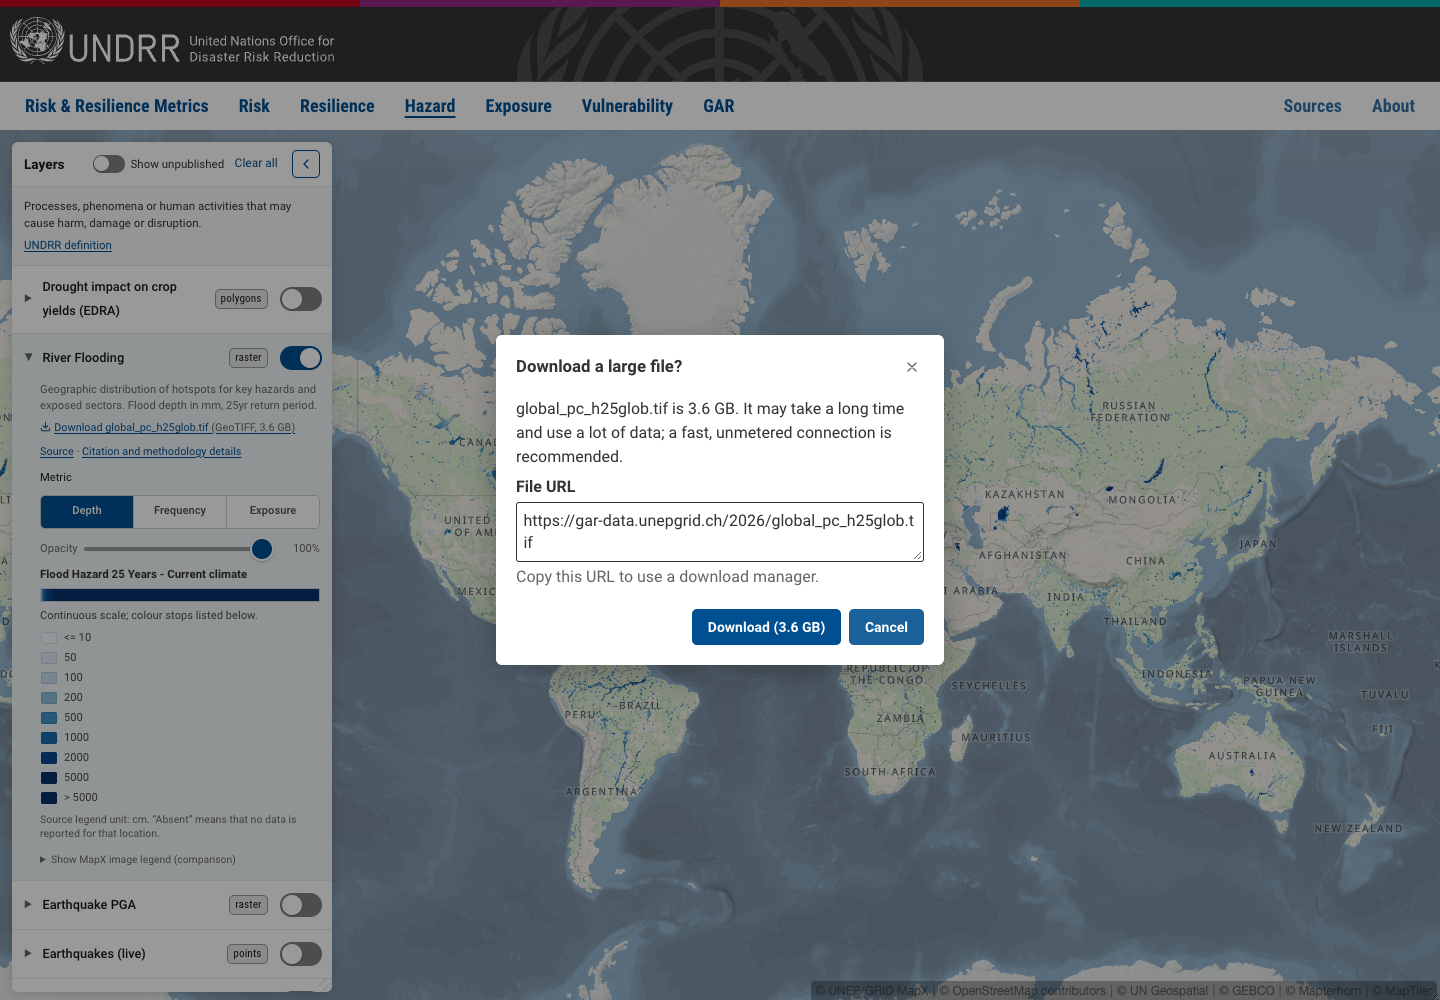
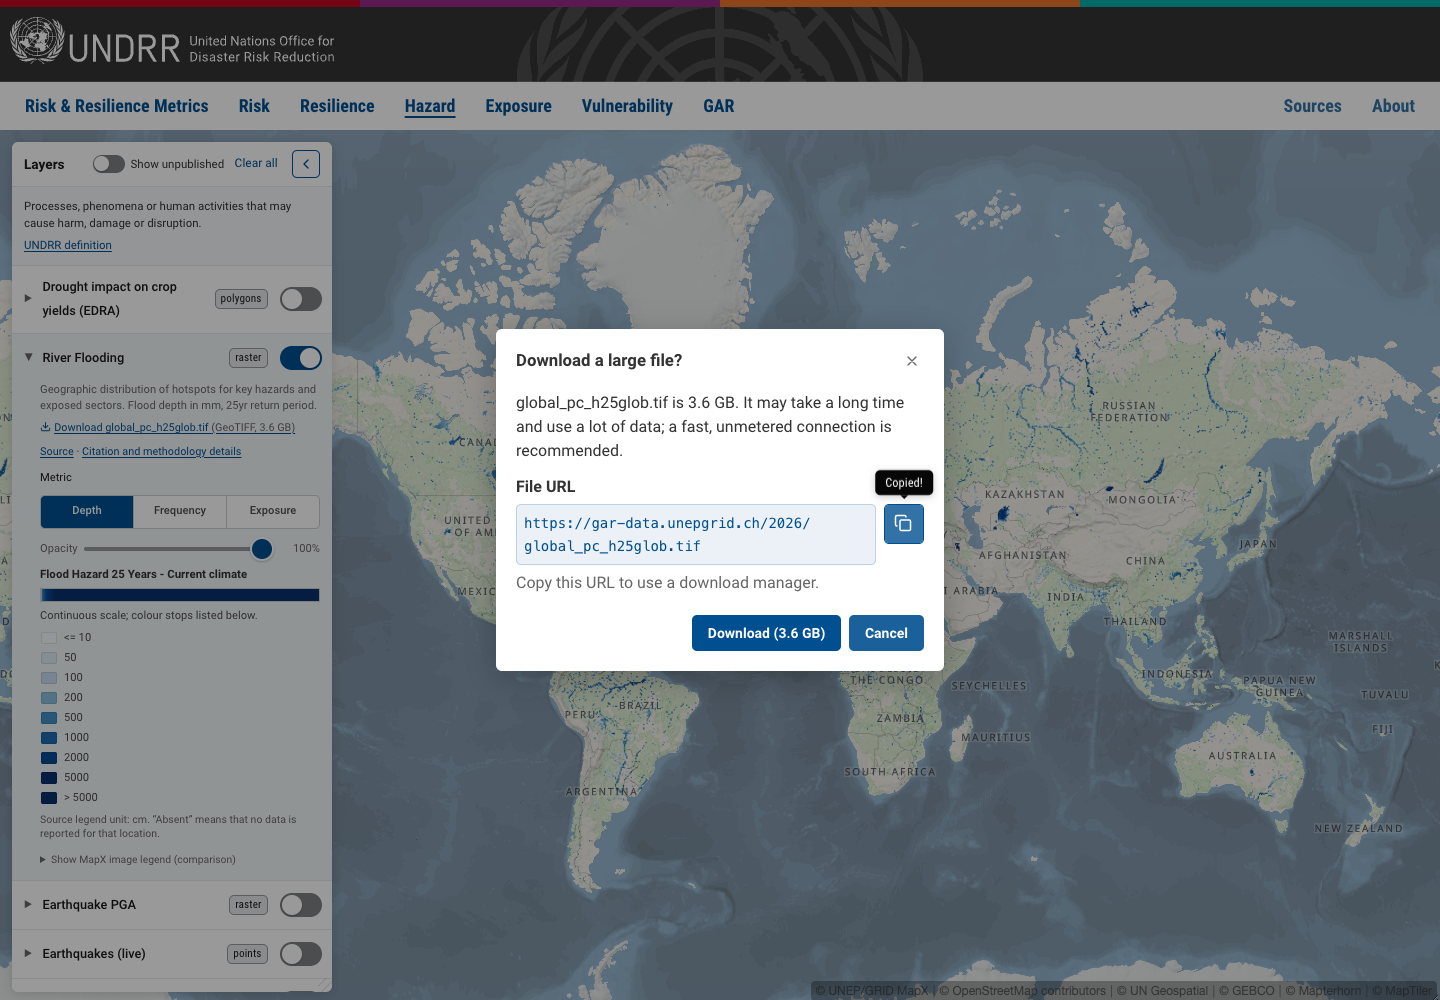
fix: wrap download URLs as code with Mangrove copy utility

Changed region(s): [[0.3438, 0.465, 0.6562, 0.682], [0.3438, 0.31, 0.6562, 0.372], [0.3438, 0.403, 0.625, 0.465]]

diff --git a/src/ui/download-dialog.js b/src/ui/download-dialog.js
@@ -24,6 +24,8 @@
  * MapX call cannot be), but its result is ignored and nothing is downloaded.
  */
 import { createLayerAnnouncer } from "./announcer.js";
+import { escapeHtml } from "../utils/html.js";
+import { attachCopyButtonFallback, initMangroveCopyButtons } from "./mangrove-copy-button.js";
 
 const STEPS = ["fetching", "processing", "downloading"];
 // A one-off hint for a slow fetch, not a duration estimate or a stall detector.
@@ -71,12 +73,7 @@ export function createDownloadDialog({ doc = document } = {}) {
     </div>
     <p class="download-dialog__status" data-part="status"></p>
     <p class="download-dialog__notice mg-form-help" data-part="notice" hidden></p>
-    <div class="download-dialog__file" hidden>
-      <label class="download-dialog__url-label">File URL
-        <textarea class="download-dialog__url" rows="2" readonly spellcheck="false"></textarea>
-      </label>
-      <p class="download-dialog__hint">Copy this URL to use a download manager.</p>
-    </div>
+    <div class="download-dialog__file" hidden></div>
     <div class="download-dialog__actions mg-buttons">
       <button type="button" class="mg-button mg-button-primary" data-action="extra" hidden></button>
       <button type="button" class="mg-button mg-button-primary" data-action="retry" hidden>Try again</button>
@@ -94,7 +91,6 @@ export function createDownloadDialog({ doc = document } = {}) {
   const status = dialog.querySelector('[data-part="status"]');
   const notice = dialog.querySelector('[data-part="notice"]');
   const fileBox = dialog.querySelector(".download-dialog__file");
-  const fileUrlField = dialog.querySelector(".download-dialog__url");
   const retryBtn = dialog.querySelector('[data-action="retry"]');
   const extraBtn = dialog.querySelector('[data-action="extra"]');
   const closeBtn = dialog.querySelector('.download-dialog__actions [data-action="close"]');
@@ -112,6 +108,47 @@ export function createDownloadDialog({ doc = document } = {}) {
   let confirmAccepted = false;
   let destroyed = false;
   let waitHintTimer = null;
+  let copyController = null;
+  let detachCopyFallback = () => {};
+
+  function clearFile() {
+    copyController?.abort();
+    copyController = null;
+    detachCopyFallback();
+    detachCopyFallback = () => {};
+    fileBox.replaceChildren();
+    fileBox.hidden = true;
+  }
+
+  function showFile(url) {
+    if (!url) return;
+    // Prefer breaks after path separators, keeping the scheme together. The
+    // copy utility always receives the original URL without presentation markup.
+    const wrappedUrl = escapeHtml(url).replace(/([^/])\/(?!\/)/g, "$1/<wbr>");
+    fileBox.innerHTML = `
+      <p class="download-dialog__url-label">File URL</p>
+      <div class="download-dialog__url-row">
+        <code class="download-dialog__url mg-code" dir="ltr">${wrappedUrl}</code>
+        <button type="button"
+          class="download-dialog__copy mg-button mg-button-primary mg-button-outline mg-button--icon mg-copy-button"
+          data-mg-copy-button data-text-to-copy="${escapeHtml(url)}"
+          data-tooltip-label="Copied!" data-copied-label="File URL copied to clipboard."
+          aria-label="Copy file URL">
+          <span class="mg-icon mg-icon-copy mg-button__icon" aria-hidden="true"></span>
+          <span class="mg-copy-button__feedback" aria-hidden="true">Copied!</span>
+          <span class="mg-u-sr-only" aria-live="polite"></span>
+        </button>
+      </div>
+      <p class="download-dialog__hint">Copy this URL to use a download manager.</p>
+    `;
+    fileBox.hidden = false;
+    copyController = new AbortController();
+    const detach = attachCopyButtonFallback(fileBox.querySelector("[data-mg-copy-button]"));
+    detachCopyFallback = detach;
+    initMangroveCopyButtons(fileBox, { signal: copyController.signal }).then((applied) => {
+      if (applied) detach();
+    });
+  }
 
   function say(message) {
     // No record: every state change is a new event for the region.
@@ -192,8 +229,7 @@ export function createDownloadDialog({ doc = document } = {}) {
   function show(text, run, opener) {
     settle(false); // a confirm still open is answered "no"
     current = { run, opener };
-    fileBox.hidden = true;
-    fileUrlField.value = "";
+    clearFile();
     title.textContent = text;
     dialog.setAttribute("aria-label", text);
     if (!dialog.isConnected) doc.body.appendChild(dialog);
@@ -222,8 +258,7 @@ export function createDownloadDialog({ doc = document } = {}) {
   function confirm({ title: text, message, confirmLabel, fileUrl = "", opener = doc.activeElement }) {
     if (destroyed) return Promise.resolve(false);
     show(text, null, opener);
-    fileUrlField.value = fileUrl;
-    fileBox.hidden = !fileUrl;
+    showFile(fileUrl);
     generation++; // any earlier run is abandoned
     return new Promise((resolve) => {
       confirmAccepted = false;
@@ -241,6 +276,7 @@ export function createDownloadDialog({ doc = document } = {}) {
   function close() {
     if (!dialog.open && !dialog.hasAttribute("open")) return;
     generation++;
+    clearFile();
     clearTimeout(waitHintTimer);
     waitHintTimer = null;
     if (typeof dialog.close === "function") dialog.close();

diff --git a/src/ui/download-dialog.test.js b/src/ui/download-dialog.test.js
@@ -34,6 +34,7 @@ describe("createDownloadDialog", () => {
   afterEach(() => {
     dialog.destroy();
     vi.useRealTimers();
+    vi.unstubAllGlobals();
   });
 
   const live = () => dialog.element.querySelector('[role="status"]');
@@ -323,16 +324,37 @@ describe("createDownloadDialog", () => {
       const field = dialog.element.querySelector(".download-dialog__url");
       const box = dialog.element.querySelector(".download-dialog__file");
       expect(box.hidden).toBe(false);
-      expect(field.readOnly).toBe(true);
-      field.select();
-      expect(field.value.slice(field.selectionStart, field.selectionEnd)).toBe(
+      expect(field.tagName).toBe("CODE");
+      expect(field.textContent).toBe("https://files.example/big.tif");
+      expect(dialog.element.querySelector("[data-mg-copy-button]").dataset.textToCopy).toBe(
         "https://files.example/big.tif",
       );
       dialog.open({ title: "Download CSV", run: () => new Promise(() => {}) });
       expect(box.hidden).toBe(true);
-      expect(field.value).toBe("");
+      expect(box.childElementCount).toBe(0);
       void ask();
       expect(box.hidden).toBe(true);
+    });
+
+    it("copies the exact URL without accepting the download", async () => {
+      const writeText = vi.fn().mockResolvedValue(undefined);
+      vi.stubGlobal("navigator", { clipboard: { writeText } });
+      const accepted = vi.fn();
+      void dialog
+        .confirm({
+          title: "Download a large file?",
+          message: "big.tif is 3.6 GB.",
+          confirmLabel: "Download",
+          fileUrl: "https://files.example/path/big.tif?key=a&other=b",
+        })
+        .then(accepted);
+      const copy = dialog.element.querySelector("[data-mg-copy-button]");
+      copy.click();
+      await flush();
+      expect(writeText).toHaveBeenCalledExactlyOnceWith("https://files.example/path/big.tif?key=a&other=b");
+      expect(copy.querySelector('[aria-live="polite"]').textContent).toBe("File URL copied to clipboard.");
+      expect(accepted).not.toHaveBeenCalled();
+      expect(dialog.state).toBe("confirm");
     });
 
     it("resolves true on the confirm button, closes and returns focus", async () => {

diff --git a/src/styles/components/downloads.css b/src/styles/components/downloads.css
@@ -148,38 +148,37 @@
   opacity: 0;
 }
 
-/* Keep hosted URLs selectable without following the download link. */
+/* Path separators are preferred wrap points; long filenames can still wrap. */
 .download-dialog__url-label {
-  display: block;
-  margin-top: 0.4rem;
+  margin: 0.75rem 0 0.35rem;
   font-weight: 600;
+}
+
+.download-dialog__url-row {
+  display: grid;
+  grid-template-columns: minmax(0, 1fr) auto;
+  align-items: start;
+  gap: 0.5rem;
 }
 
 .download-dialog__url {
   display: block;
-  box-sizing: border-box;
-  width: 100%;
-  min-height: 40px;
-  margin-top: 0.2rem;
-  padding: 0.4rem;
-  border: 1px solid currentColor;
-  border-radius: 3px;
-  background: transparent;
-  color: var(--color-text);
-  font: inherit;
-  font-weight: 400;
-  line-height: 1.4;
+  min-width: 0;
+  padding: 0.5rem;
+  font-size: 0.875rem;
+  line-height: 1.6;
+  white-space: normal;
   overflow-wrap: anywhere;
-  word-break: break-all;
-  resize: vertical;
+  word-break: normal;
+  user-select: text;
 }
 
-.download-dialog__url:focus-visible {
-  outline: var(--mg-focus-ring-width) solid rgb(var(--mg-color-focus-ring));
-  outline-offset: 2px;
+.download-dialog__copy {
+  min-width: 40px;
+  min-height: 40px;
 }
 
 .download-dialog__hint {
-  margin: 0.2rem 0 0.5rem;
+  margin: 0.4rem 0 0;
   color: var(--color-text-muted);
 }

diff --git a/src/ui/downloads.test.js b/src/ui/downloads.test.js
@@ -371,7 +371,9 @@ describe("large-file confirmation", () => {
     expect(dialogEl().dataset.state).toBe("confirm");
     expect(dialogEl().querySelector('[data-part="status"]').textContent).toContain("big.tif is 3.6 GB");
     expect(startFileDownload).not.toHaveBeenCalled();
-    expect(dialogEl().querySelector(".download-dialog__url").value).toBe("https://files.example/big.tif");
+    expect(dialogEl().querySelector(".download-dialog__url").textContent).toBe(
+      "https://files.example/big.tif",
+    );
     expect(dialogEl().querySelector(".download-dialog__file").hidden).toBe(false);
     dialogEl().querySelector('[data-action="extra"]').click();
     await new Promise((resolve) => setTimeout(resolve, 0));

diff --git a/docs/downloads.md b/docs/downloads.md
@@ -31,11 +31,11 @@ stakeholder preview PIN when prompted (access details are shared separately).
 3. For a hosted raster, open `http://localhost:3001/#hazard?layers=river-flooding` and choose
    the GeoTIFF link in the expanded row. The link shows the file's size; files over 1 GB ask for
    confirmation first. In that confirmation modal, **File URL** shows the hosted file’s full
-   address in a read-only field. Select and copy it to use an alternate download manager;
+   address as wrapping code text. Use **Copy file URL** to copy it into an alternate download manager;
    copying the URL does not start a download. CSVs are generated in the browser and have no
    hosted file URL.
 
-![GeoTIFF file URL selected for copying into a download manager](images/geotiff-file-url.png)
+![GeoTIFF file URL and copy button in the download confirmation modal](images/geotiff-file-url.png)
 
 The CSV dialog names the current stage (fetching, preparing, starting) and uses an
 indeterminate Mangrove progress bar: the map service does not report bytes or time

diff --git a/CHANGELOG.md b/CHANGELOG.md
@@ -8,7 +8,7 @@ The format is based on [Common Changelog](https://common-changelog.org/).
 
 ### Added
 
-- Show a selectable hosted file URL in the large GeoTIFF download confirmation modal so users can copy it into an alternate download manager.
+- Show a wrapping hosted file URL as code text with a copy button in the large GeoTIFF download confirmation modal so users can copy it into an alternate download manager.
 
 ### Changed
 
